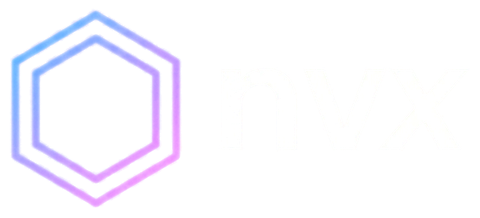
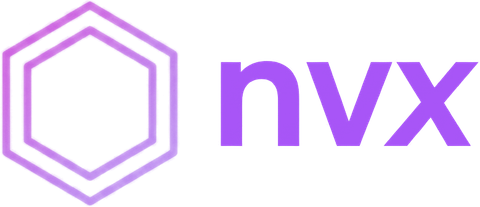
One wordmark that works on both themes
The light bar rendered the dark wordmark through brightness(0.35), which is a
filter standing in for an asset. It multiplies every channel, so it greyed the
hexagon's gradient and turned white lettering into flat grey rather than into
ink. It looked washed because it was.

The mark is now drawn for both grounds. The lettering is the brand purple
instead of white, which measures 4.8:1 on the dark bar and 3.8:1 on the light
one, and the hexagon sits on a deeper violet-to-fuchsia ramp that holds its
colour on white. Logotypes are exempt from the contrast rules, so those
numbers are an aesthetic floor rather than a compliance one.

Two assets would look better still -- near-black ink on white cannot be beaten
by a compromise colour -- and they would cost a second file, theme-swap logic
in both bars, and a guard that measures both. One file, one maintainer.

--ui-mark-filter stays in the template and is `none` in both themes here. A
product shipping a dark-only wordmark still needs it; this one does not.

The crop is tight now, so the asset carries no transparent margin and
--ui-mark-inset-ratio goes to zero. The token stays: the compensation is real
for any asset exported with padding, and the guard re-measures whichever file
meta.ts names.

Changed region(s): [[0.0, 0.0, 0.375, 1.0], [0.4375, 0.2899, 1.0, 0.7246]]

diff --git a/site/src/styles/tokens.css b/site/src/styles/tokens.css
@@ -48,8 +48,11 @@
      different components with their own scoped styles, and this is one
      decision, not two. */
   --ui-mark-filter: none;
-  /* 15 transparent columns of 720, per scripts/wordmark-inset.mjs. */
-  --ui-mark-inset-ratio: 0.0208;
+  /* Zero: the wordmark is cropped tight, so it carries no transparent margin
+     to cancel. Kept as a token rather than deleted -- the compensation is real
+     for any asset exported with padding, and scripts/wordmark-inset.mjs
+     re-measures whichever file meta.ts names. */
+  --ui-mark-inset-ratio: 0;
 
   /* Tells the browser which way to draw the controls it renders itself: the
    * <select> popup in the theme control, native focus rings, and form
@@ -188,19 +191,13 @@
 html[data-theme='light'] {
   color-scheme: light;
 
-  /* The wordmark is a dark-theme asset and there is only one of it: the
-   * lettering is white, so on a light page it disappears entirely. Measured
-   * over its 21,880 opaque pixels, mean ink is rgb(255,255,254) and 1.03:1
-   * on --ui-bg here. brightness(0.35) takes that to rgb(89,89,89) and
-   * 6.77:1, and leaves the hexagon's gradient still reading purple.
-   *
-   * No gate caught this and none should have -- WCAG exempts logotypes from
-   * the contrast rules, so axe and contrast-sweep.mjs are correctly silent.
-   *
-   * A light-theme asset would be more faithful and would also be a second
-   * file to keep in step with this one and with scripts/wordmark-inset.mjs.
-   * One declaration, reversible, until it bothers someone. */
-  --ui-mark-filter: brightness(0.35);
+  /* No filter. The wordmark is drawn to work on both themes: the lettering is
+     the brand purple rather than white, so it needs no darkening here, and
+     filtering it would only wash the mark out. The token stays because the
+     template's bars read it and a product shipping a dark-only wordmark still
+     needs it -- `brightness(0.35)` was what this site used while its wordmark
+     was white-on-transparent. */
+  --ui-mark-filter: none;
 
   /* The accent, as a colour and as channels.
    *
